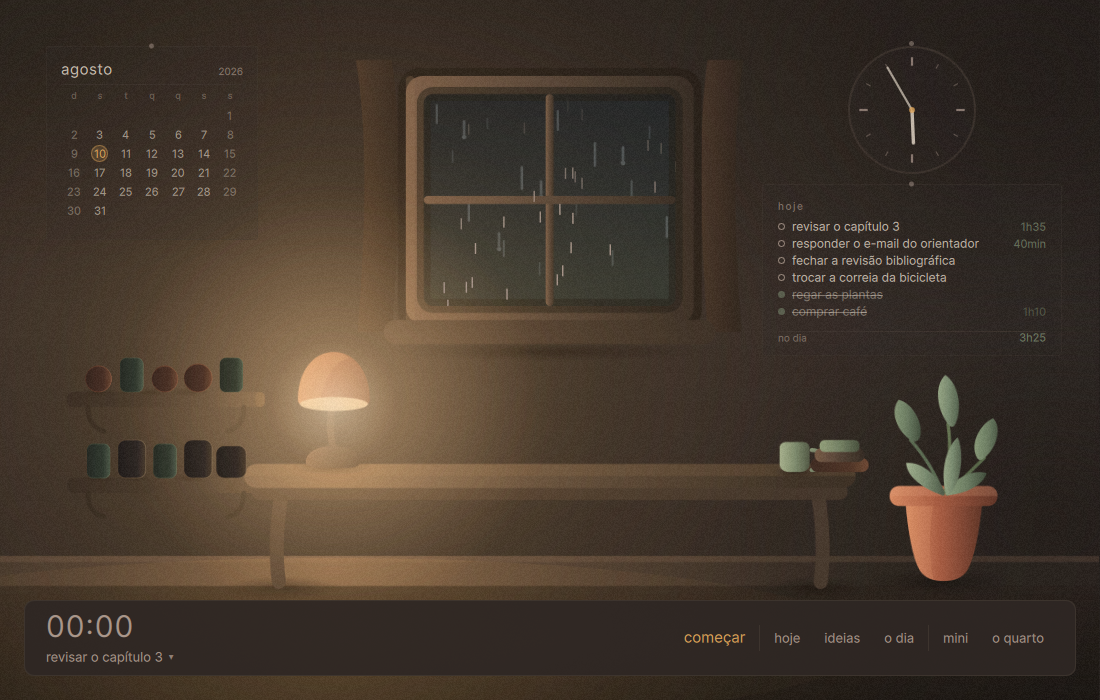
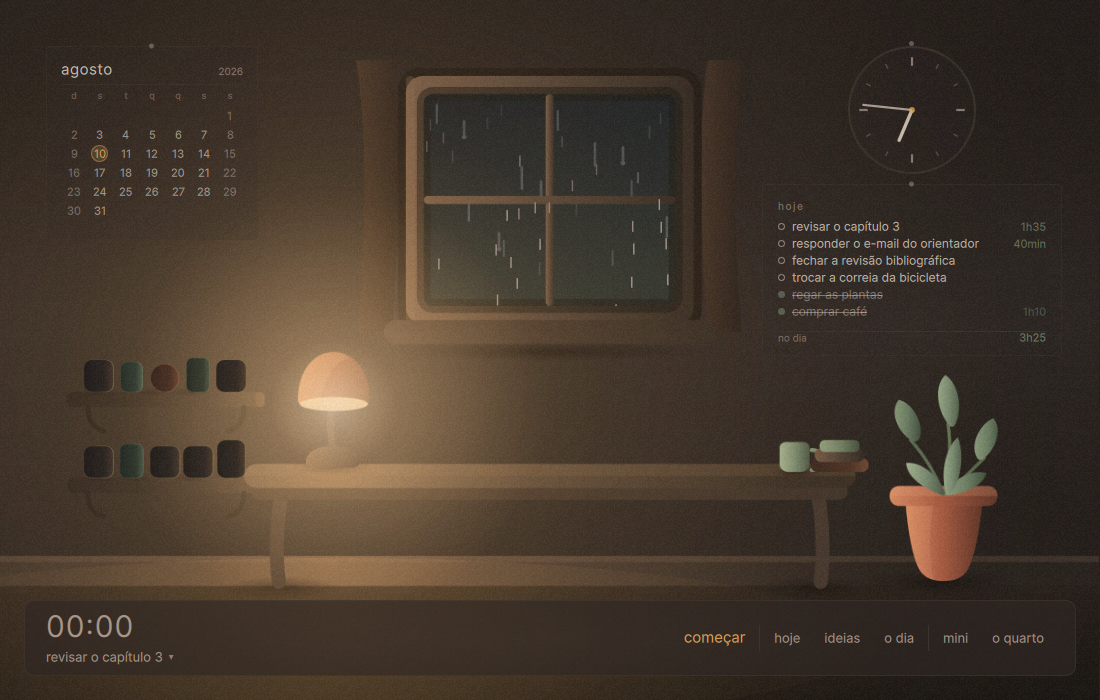
fix(ui): o quarto acende em vez de aparecer
As cinco camadas do cenário são SVG rasterizado fora da thread da UI, e
levam uns trezentos milissegundos. Até aqui elas entravam de estalo, uma a
uma, sobre o fundo vazio — a única coisa do app que aparecia sem transição,
e logo o quarto, que é a tela inteira.

A trava é de uma vez só, de propósito. Ligar a opacidade direto em `status`
faria o quarto apagar e reacender a cada mudança de `larguraFonte`, ou seja,
sempre que a janela muda de tamanho — e ali não há nada a esconder, porque o
Qt continua mostrando a imagem antiga enquanto rasteriza a nova.

diff --git a/cantinho/ui/room/Room.qml b/cantinho/ui/room/Room.qml
@@ -15,6 +15,24 @@ Item {
     signal abrirHoje()
     signal abrirSemana()
 
+    // O quarto acende em vez de aparecer.
+    //
+    // As cinco camadas do cenário são SVG rasterizado fora da thread da UI, e
+    // levam uns trezentos milissegundos. Até aqui elas entravam de estalo, uma
+    // a uma, sobre o fundo vazio — a única coisa no app que aparecia sem
+    // transição, e logo o quarto, que é a tela inteira.
+    //
+    // A trava é de uma vez só, de propósito. Ligar a opacidade direto em
+    // `status` faria o quarto apagar e reacender a cada mudança de
+    // `larguraFonte`, ou seja, sempre que a janela muda de tamanho — e ali não
+    // há nada a esconder, porque o Qt continua mostrando a imagem antiga
+    // enquanto rasteriza a nova.
+    property bool aceso: false
+    opacity: aceso ? 1 : 0
+    Behavior on opacity {
+        NumberAnimation { duration: 1100; easing.type: Easing.InOutQuad }
+    }
+
     // Coordenadas do viewBox dos SVGs. Serve para posicionar os efeitos por
     // cima do desenho quando a janela não está em 1:1.
     //
@@ -56,6 +74,10 @@ Item {
         fillMode: Image.PreserveAspectFit
         asynchronous: true
         smooth: true
+
+        // A camada de baixo é a maior e a que sempre existe: quando ela fica
+        // pronta, há quarto o bastante para acender.
+        onStatusChanged: if (status === Image.Ready) quarto.aceso = true
     }
 
     Image {
@@ -113,7 +135,7 @@ Item {
             origin.y: quarto.cy(560)
             angle: 0
             RotationAnimation on angle {
-                running: true
+                running: Theme.movimento
                 loops: Animation.Infinite
                 from: -1.5
                 to: 1.5
@@ -190,7 +212,7 @@ Item {
 
         property real raio: quarto.px(230)
         SequentialAnimation on raio {
-            running: true
+            running: Theme.movimento
             loops: Animation.Infinite
             NumberAnimation { to: quarto.px(237); duration: 3100; easing.type: Easing.InOutSine }
             NumberAnimation { to: quarto.px(223); duration: 3100; easing.type: Easing.InOutSine }
@@ -225,7 +247,10 @@ Item {
         x: quarto.cx(424); y: quarto.cy(94)
         width: quarto.px(252); height: quarto.px(212)
         clip: true
-        opacity: Theme.noite ? 1 : 0
+        // Sai inteira com o quarto quieto, em vez de congelar: gota de chuva
+        // parada no ar não é chuva discreta, é desenho com defeito. Zerar a
+        // opacidade já para o sistema de partículas, que segue `visible`.
+        opacity: Theme.noite && Theme.movimento ? 1 : 0
         visible: opacity > 0.01
         Behavior on opacity { NumberAnimation { duration: Theme.transicao } }
 
@@ -266,7 +291,7 @@ Item {
         x: quarto.cx(400); y: quarto.cy(94)
         width: quarto.px(330); height: quarto.px(400)
         clip: true
-        opacity: Theme.noite ? 0 : 1
+        opacity: !Theme.noite && Theme.movimento ? 1 : 0
         visible: opacity > 0.01
         Behavior on opacity { NumberAnimation { duration: Theme.transicao } }
 
@@ -308,10 +333,14 @@ Item {
         opacity: 0.04
         smooth: false
 
+        // O grão continua na tela com o quarto quieto — ele é textura de
+        // filme, não movimento. O que para é o sorteio da semente, e é ele que
+        // custa: cada troca repinta a janela inteira, três mil vezes por
+        // expediente, com ou sem alguém olhando.
         property int seed: 1
         Timer {
             interval: 900
-            running: true
+            running: Theme.movimento
             repeat: true
             onTriggered: {
                 grao.seed = grao.seed % 6 + 1
